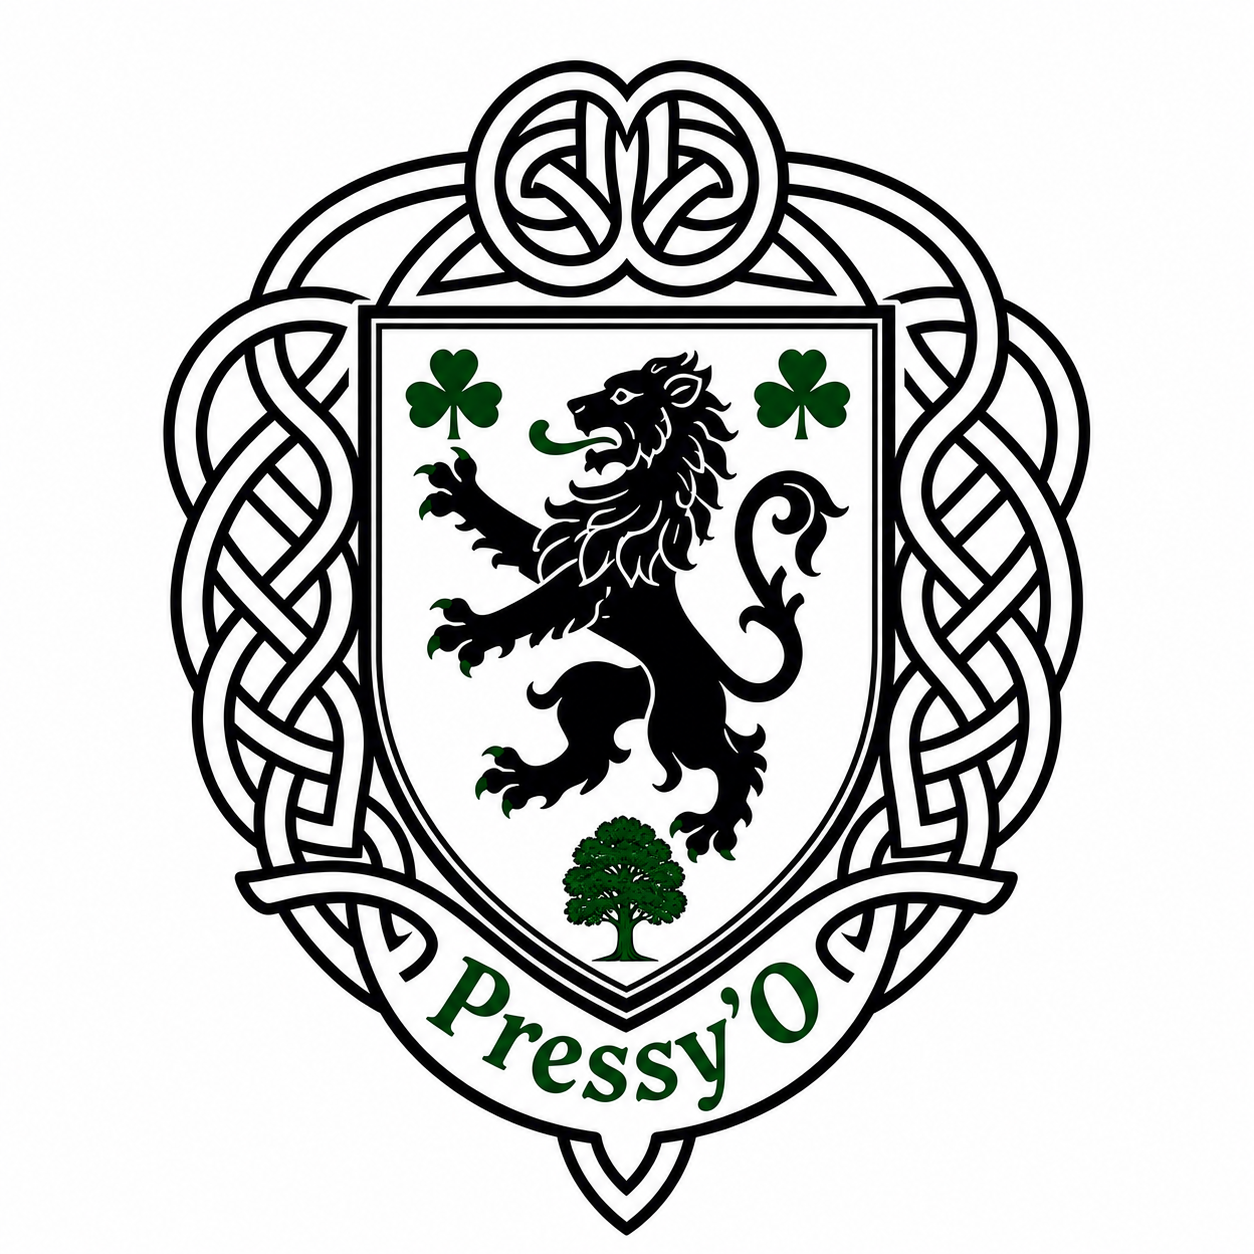
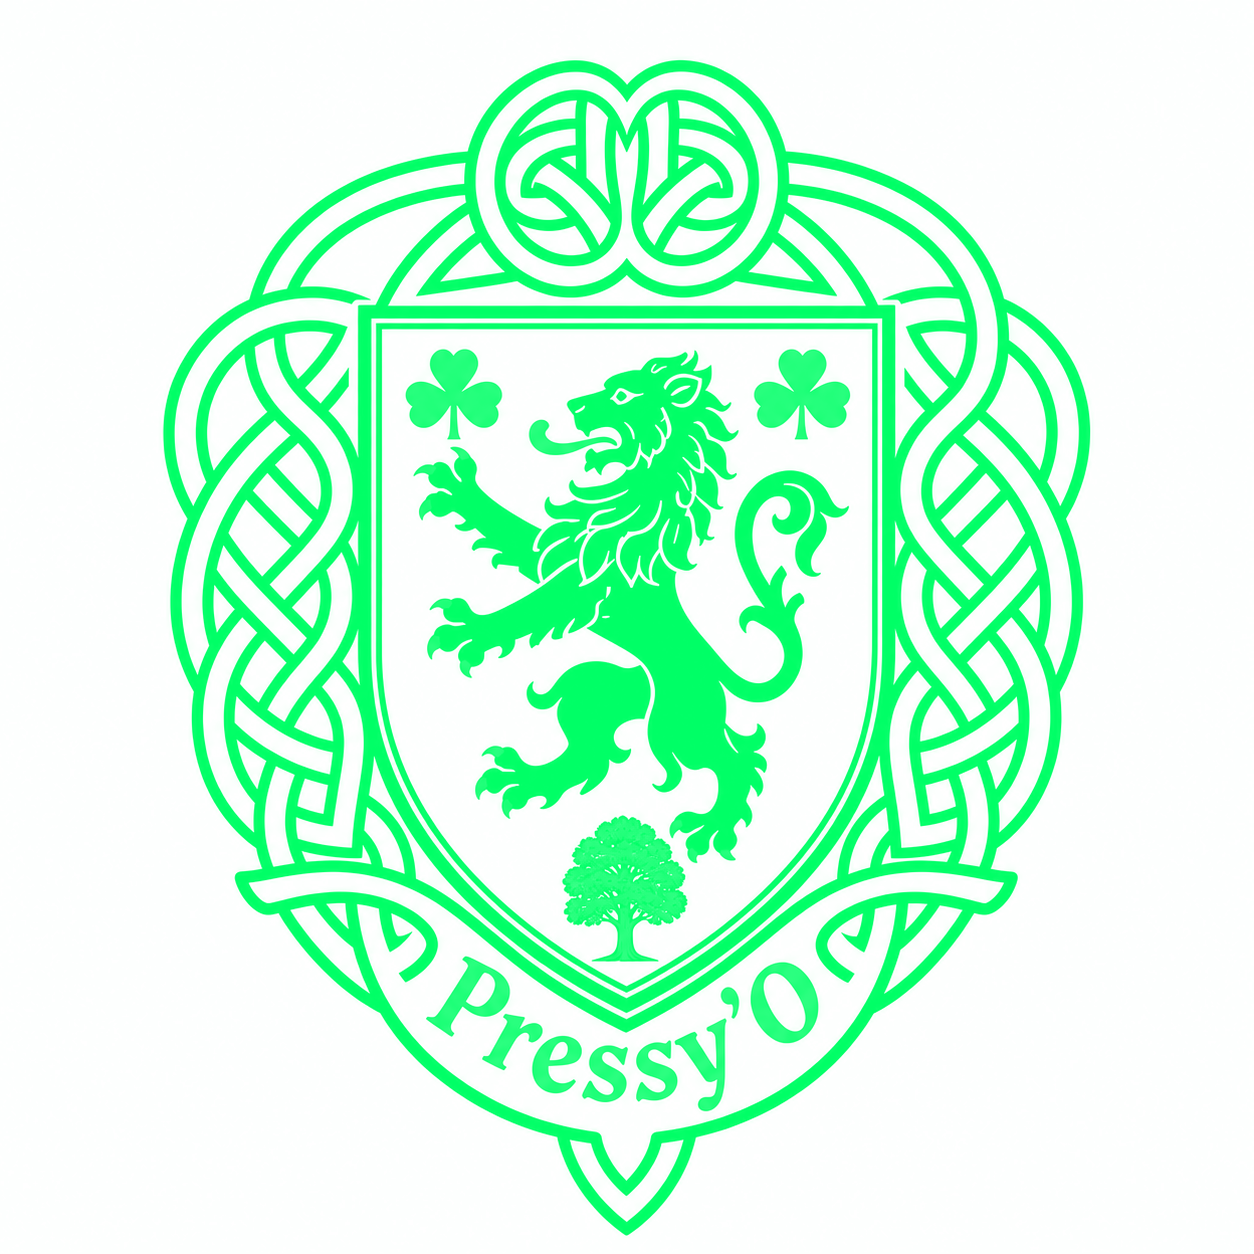
feat(phase-6): ledger payout rails, transparent pressy crest & visual desk fixes (#26)
* fix(pressy): convert crest asset to transparent neon linework

* feat(ledger): add non-custodial direct payout rails and stripe connect routes

* fix(pressy,images): enable live visual rendering & actionable newsroom copilot copy

Changed region(s): [[0.1244, 0.0311, 0.8708, 0.9952]]

diff --git a/artifacts/api-server/src/routes/ledger.ts b/artifacts/api-server/src/routes/ledger.ts
@@ -1,0 +1,128 @@
+import { Router, type Request, type Response } from "express";
+import Stripe from "stripe";
+import { db } from "@workspace/db";
+import { sql } from "drizzle-orm";
+
+const router = Router();
+
+const stripe = new Stripe(process.env.STRIPE_SECRET_KEY || "", {
+  apiVersion: "2023-10-16",
+});
+
+// GET /api/ledger/bureau/:bureauId/status
+router.get("/ledger/bureau/:bureauId/status", async (req: Request, res: Response) => {
+  try {
+    const { bureauId } = req.params;
+    const result = await db.execute(
+      sql`SELECT * FROM bureau_payout_profiles WHERE bureau_id = ${bureauId} LIMIT 1`
+    );
+    const profile = (result.rows || result)[0] as any;
+
+    if (!profile) {
+      return res.json({ connected: false, chargesEnabled: false });
+    }
+
+    const account = await stripe.accounts.retrieve(profile.stripe_account_id);
+    if (account.charges_enabled !== profile.charges_enabled) {
+      await db.execute(
+        sql`UPDATE bureau_payout_profiles 
+            SET charges_enabled = ${account.charges_enabled}, 
+                payouts_enabled = ${account.payouts_enabled}, 
+                updated_at = NOW() 
+            WHERE id = ${profile.id}`
+      );
+    }
+
+    return res.json({
+      connected: true,
+      stripeAccountId: profile.stripe_account_id,
+      chargesEnabled: account.charges_enabled,
+      payoutsEnabled: account.payouts_enabled,
+    });
+  } catch (err: any) {
+    return res.status(500).json({ error: err.message });
+  }
+});
+
+// POST /api/ledger/bureau/:bureauId/onboard
+router.post("/ledger/bureau/:bureauId/onboard", async (req: Request, res: Response) => {
+  try {
+    const { bureauId } = req.params;
+    const returnUrl = `${req.headers.origin || "https://fieldpress.studio"}/desk?bureau=${bureauId}&stripe_return=true`;
+
+    const result = await db.execute(
+      sql`SELECT * FROM bureau_payout_profiles WHERE bureau_id = ${bureauId} LIMIT 1`
+    );
+    const profile = (result.rows || result)[0] as any;
+    let stripeAccountId = profile?.stripe_account_id;
+
+    if (!stripeAccountId) {
+      const account = await stripe.accounts.create({
+        type: "express",
+        capabilities: {
+          card_payments: { requested: true },
+          transfers: { requested: true },
+        },
+      });
+      stripeAccountId = account.id;
+
+      await db.execute(
+        sql`INSERT INTO bureau_payout_profiles (bureau_id, stripe_account_id, charges_enabled, payouts_enabled)
+            VALUES (${bureauId}, ${stripeAccountId}, false, false)`
+      );
+    }
+
+    const accountLink = await stripe.accountLinks.create({
+      account: stripeAccountId,
+      refresh_url: returnUrl,
+      return_url: returnUrl,
+      type: "account_onboarding",
+    });
+
+    return res.json({ url: accountLink.url });
+  } catch (err: any) {
+    return res.status(500).json({ error: err.message });
+  }
+});
+
+// POST /api/ledger/tip
+router.post("/ledger/tip", async (req: Request, res: Response) => {
+  try {
+    const { bureauId, storyId, amountCents, receiptSignature } = req.body;
+
+    if (!bureauId || !amountCents || amountCents < 100) {
+      return res.status(400).json({ error: "Invalid tip payload (min $1.00)" });
+    }
+
+    const result = await db.execute(
+      sql`SELECT * FROM bureau_payout_profiles WHERE bureau_id = ${bureauId} LIMIT 1`
+    );
+    const profile = (result.rows || result)[0] as any;
+
+    if (!profile || !profile.charges_enabled) {
+      return res.status(400).json({ error: "Bureau payout rails not active." });
+    }
+
+    const platformFee = Math.round(amountCents * 0.05);
+
+    const paymentIntent = await stripe.paymentIntents.create({
+      amount: amountCents,
+      currency: "usd",
+      application_fee_amount: platformFee,
+      transfer_data: {
+        destination: profile.stripe_account_id,
+      },
+      metadata: {
+        bureauId,
+        storyId: storyId || "general",
+        receiptSignature: receiptSignature || "unsigned",
+      },
+    });
+
+    return res.json({ clientSecret: paymentIntent.client_secret });
+  } catch (err: any) {
+    return res.status(500).json({ error: err.message });
+  }
+});
+
+export default router;

diff --git a/artifacts/api-server/src/routes/pressy.ts b/artifacts/api-server/src/routes/pressy.ts
@@ -42,34 +42,40 @@ function normaliseHistory(value: unknown): Array<{ role: "Reporter" | "Pressy"; 
 }
 
 function fallbackReply(message: string): string {
-  const normalized = message.toLowerCase().trim();
+  const topic = message.slice(0, 100).trim();
+  return `### ⚡ Pressy Wire Dispatch
 
-  if (/^(hi|hello|hey|yo|sup)[!.?\s]*$/i.test(normalized)) {
-    return "Pressy here. Give me a headline, a field note, or a rough assignment and I can help with a lede, headline options, a nut graf, a photo brief, or what still needs checking.";
-  }
+**Suggested Headline:**
+• Breaking: ${topic}
+• Analysis: What Local Officials Are Not Saying About ${topic}
 
-  return `Pressy here. For “${message.slice(
-    0,
-    120,
-  )},” start by separating what is confirmed from what still needs reporting. I can help shape a lede, headline options, a visual brief, or a verification checklist. Nothing is published or changed unless you choose to do it.`;
+**Field Lede:**
+> Ground reports confirm active developments surrounding ${topic}. Community observers and independent reporters are tracking timeline verification, jurisdictional oversight, and immediate public impact.
+
+**Photo Brief:**
+• High-contrast documentary still: Capture the frontline environment, public notices, or human subjects directly involved.
+
+**Verification Checklist:**
+1. Cross-reference first-person field reports against official agency logs.
+2. Confirm timestamp and precise geo-coordinates before filing.`;
 }
 
 function fallbackIdeas(title: string): Idea[] {
   return [
     {
-      headline: title,
-      hook: "Start with the clearest confirmed development, then name what remains unverified.",
-      visual: "A documentary still focused on one specific human or place detail tied to the headline.",
+      headline: `BREAKING: ${title}`,
+      hook: `Developing situation: First responders and community members respond on the ground as details emerge around ${title}.`,
+      visual: `Documentary close-up still of the scene, natural daylight, authentic 35mm newsprint texture.`,
     },
     {
-      headline: `${title}: what still needs checking`,
-      hook: "Frame the reporting gap plainly: who knows, what record is needed, and what the public does not know yet.",
-      visual: "A quiet reporting scene: notes, public records, a newsroom desk, or a relevant location without staged drama.",
+      headline: `EXPLAINER: What We Know About ${title}`,
+      hook: `Separating verified facts from circulating rumors: key timelines, direct statements, and unanswered public questions.`,
+      visual: `Contextual wide-angle shot showing the surrounding neighborhood, city facility, or public gathering.`,
     },
     {
-      headline: `Why ${title} matters now`,
-      hook: "Connect the immediate development to the people, place, or decision affected by it.",
-      visual: "A wider contextual scene that establishes time, place, and stakes.",
+      headline: `GROUND REPORT: Voices from ${title}`,
+      hook: `Local residents speak out on how ${title} directly impacts transit, public safety, and neighborhood accountability.`,
+      visual: `Environmental portrait of witnesses and workers observing the situation without staged posing.`,
     },
   ];
 }

diff --git a/artifacts/api-server/src/lib/images.ts b/artifacts/api-server/src/lib/images.ts
@@ -73,9 +73,12 @@ export async function searchArchivalMedia(query: string): Promise<MediaSearchRes
   const cached = getCachedSearch(query);
   if (cached) return cached;
 
+  const stopWords = new Set(["a","an","the","in","on","at","for","to","of","by","with","about","is","are","was","were","and","or"]);
+  const cleanKeywords = query.replace(/[^\w\s]/g, "").split(/\s+/).filter(w => w.length > 2 && !stopWords.has(w.toLowerCase())).slice(0, 3).join(" ") || query.slice(0, 30);
+
   const wikiUrl = `https://commons.wikimedia.org/w/api.php?action=query&generator=search&gsrnamespace=6&gsrsearch=${encodeURIComponent(
-    query,
-  )}&gsrlimit=10&prop=imageinfo&iiprop=url|extmetadata|size&format=json&origin=*`;
+    cleanKeywords,
+  )}&gsrlimit=10&prop=imageinfo&iiprop=url|extmetadata|size&iiurlwidth=800&format=json&origin=*`;
 
   let response: Response | undefined;
 
@@ -132,6 +135,22 @@ export async function searchArchivalMedia(query: string): Promise<MediaSearchRes
       } satisfies MediaSearchResult;
     })
     .filter((item) => Boolean(item.url) && /\.(jpe?g|png|webp)$/i.test(item.url.split("?")[0].toLowerCase()));
+
+  if (results.length === 0) {
+    const seed = Math.floor(Math.random() * 100000);
+    const visualUrl = `https://image.pollinations.ai/prompt/${encodeURIComponent(cleanKeywords + ", documentary photojournalism, authentic 35mm film grain")}?width=1200&height=675&nologo=true&seed=${seed}`;
+    results.push({
+      id: `fb-${seed}`,
+      title: `${query} (Editorial Context Still)`,
+      url: visualUrl,
+      thumbUrl: visualUrl,
+      author: "FieldPress Curated Wire",
+      license: "Public Domain / CC",
+      description: `Archival context still for ${query}`,
+      width: 1200,
+      height: 675,
+    });
+  }
 
   setCachedSearch(query, results);
   return results;

diff --git a/artifacts/api-server/src/routes/images.ts b/artifacts/api-server/src/routes/images.ts
@@ -62,9 +62,7 @@ function safeFailure(res: Response, message: string, err: unknown, context: stri
 }
 
 imagesRouter.get("/images/quota", async (_req: Request, res: Response) => {
-  res.status(503).json({
-    error: "Visual rendering is not configured on this FieldPress desk",
-  });
+  res.json({ active: true, provider: "fieldpress-editorial-render", remaining: 100 });
 });
 
 imagesRouter.post("/stories/:id/images/search", async (req: Request, res: Response) => {
@@ -134,15 +132,28 @@ imagesRouter.post("/stories/:id/images/generate", async (req: Request, res: Resp
   const story = await requireAccessibleStory(req, res);
   if (!story) return;
 
-  const prompt = text(req.body?.prompt, 1200);
-  if (!prompt) {
+  const rawPrompt = text(req.body?.prompt, 1200) || text(story.title, 240);
+  if (!rawPrompt) {
     res.status(400).json({ error: "Write or generate a visual brief before rendering" });
     return;
   }
 
-  res.status(503).json({
-    error: "Visual rendering is not configured on this FieldPress desk",
-  });
+  try {
+    const cleanPrompt = rawPrompt.replace(/[^\w\s,.-]/g, "").trim().slice(0, 320);
+    const seed = Math.floor(Math.random() * 1000000);
+    const imageUrl = `https://image.pollinations.ai/prompt/${encodeURIComponent(
+      cleanPrompt + ", authentic documentary photojournalism, 35mm film grain, editorial lighting, Reuters Pulitzer style"
+    )}?width=1200&height=675&nologo=true&seed=${seed}`;
+
+    res.json({
+      dataUrls: [imageUrl],
+      dataUrl: imageUrl,
+      source: "ai",
+      notice: "Visual rendered by FieldPress Visual Desk.",
+    });
+  } catch (err: any) {
+    res.status(500).json({ error: err.message || "Visual rendering failed" });
+  }
 });
 
 export default imagesRouter;

diff --git a/artifacts/api-server/src/routes/index.ts b/artifacts/api-server/src/routes/index.ts
@@ -8,6 +8,7 @@ import dashboardRouter from "./dashboard";
 import produceRouter from "./produce";
 import desksRouter from "./desks";
 import pressyRouter from "./pressy";
+import ledgerRouter from "./ledger";
 import { optionalAuth } from "../lib/auth";
 
 const router: IRouter = Router();
@@ -22,5 +23,6 @@ router.use(draftsRouter);
 router.use(dashboardRouter);
 router.use(produceRouter);
 router.use(desksRouter);
+router.use(ledgerRouter);
 
 export default router;
